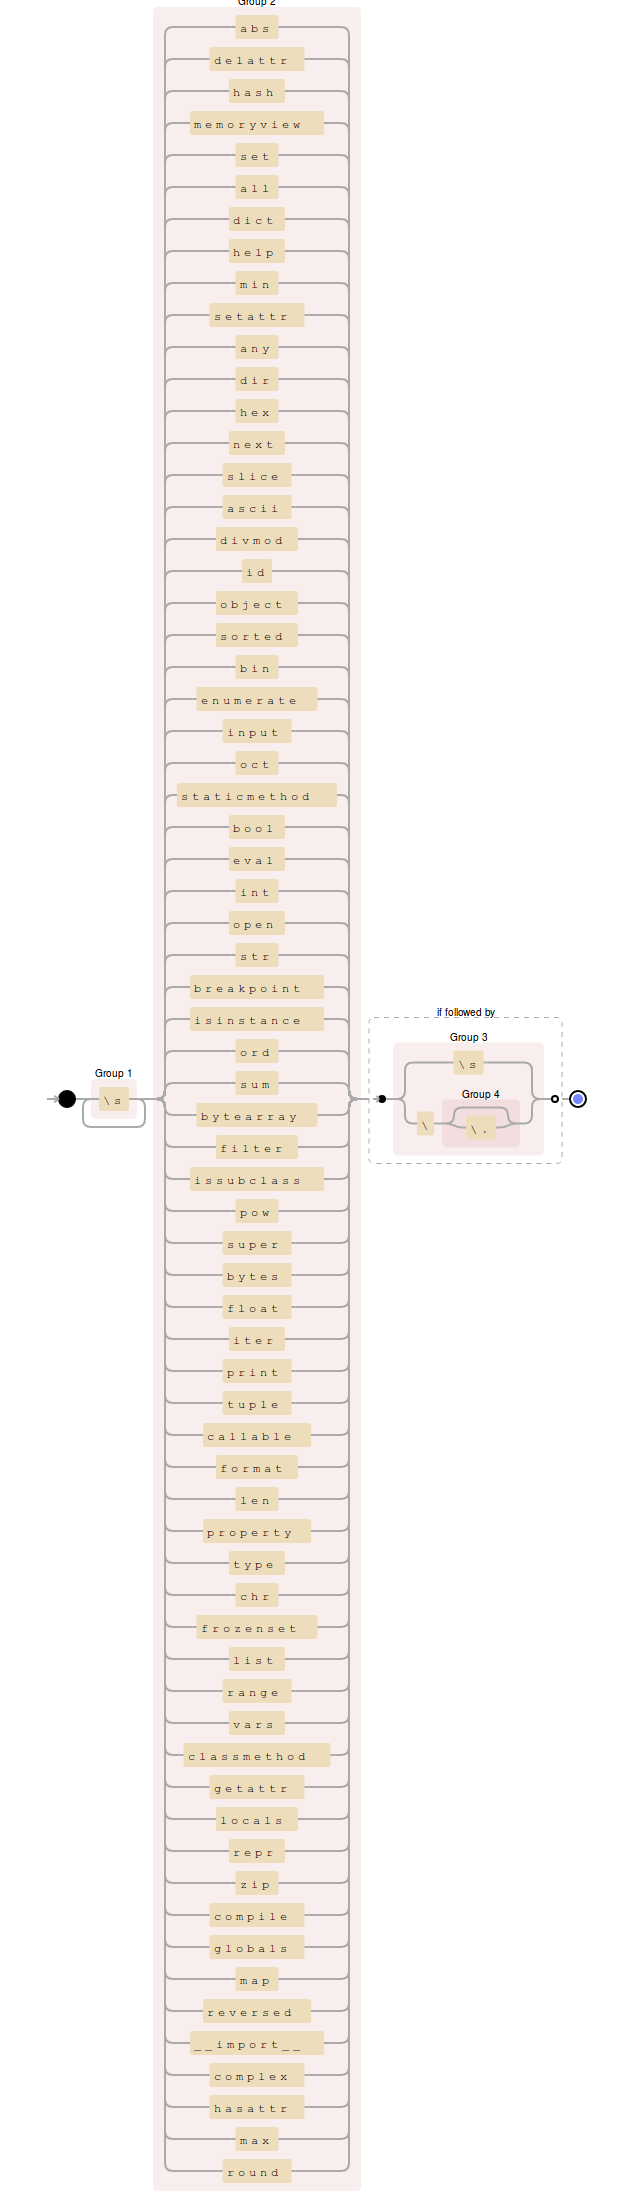
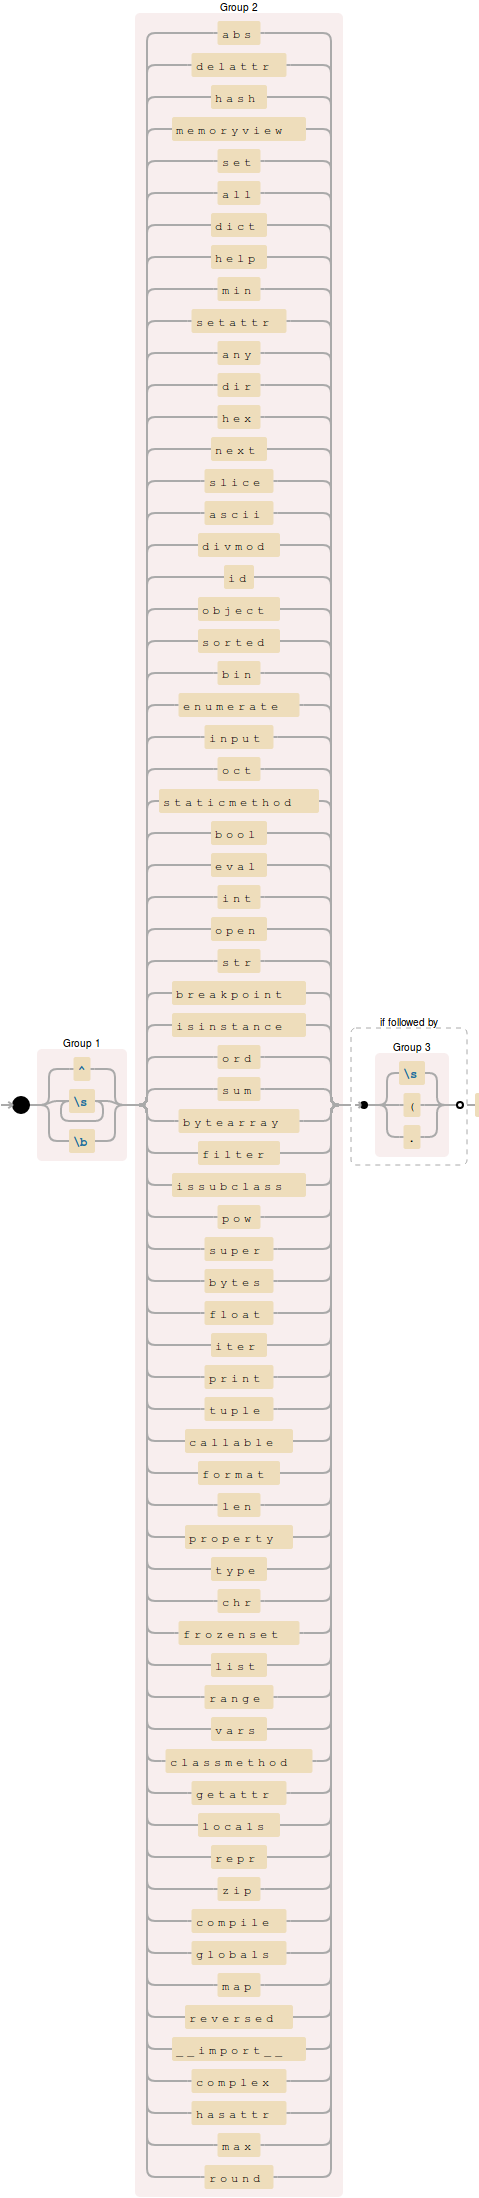
Fix regexp

Changed region(s): [[0.0877, 0.0, 1.0, 1.0], [0.0292, 0.4961, 0.0585, 0.5271]]

diff --git a/defaults/tkhelper.py b/defaults/tkhelper.py
@@ -128,6 +128,8 @@ class TkHelper():
             line = int(text.index(tk.INSERT).split(".")[0])
             startline = f"{line-3}.0" if line > 3 else f"1.0"
             endingline = f"{line+3}.0"
+            if endingline > text.index(tk.END):
+                endingline = "end"
         else:
             startline = "1.0"
             endingline = "end"
@@ -201,11 +203,10 @@ class Default():
     func_declarations: str = []
     class_declarations: str = []
 
-    
     # Visualization https://www.debuggex.com/r/ | Testing https://regex101.com/
     # Note: Tkinter regex engine don't support Lookbehind asserts...
-    chain_pattern_detailed: str = r"(^|\s)(" + r"|".join(iter(chain_gramar)) + r")(?=(\s|:|;|\())"
-    builtin_pattern_detailed: str = r"(\s)+(" + r"|".join(iter(builtin_func)) + r")(?=(\s|\(|\.))"
+    chain_pattern_detailed: str = r"(^|\s+|\b)(" + r"|".join(iter(chain_gramar)) + r")(?=(\s|:|;|\())"
+    builtin_pattern_detailed: str = r"(^|\s+|\b)(" + r"|".join(iter(builtin_func)) + r")(?=(\s|\(|\.))"
     digits_pattern: str = r"(^|\[|\s|,|\(|\]|\})(\d+(\.\d+)?j?)(?=($|\s|,|\)|\]|}|;))" #Best would be: (^|(?<=[\b\s,\)]))(\d+(\.\d+)?)(?=($|\s|,|\)|\]|}|;))
     strings_pattern: str = r"(r|f)?(\"(.|\s)*\")|(\'(.|\s)*\')"
     mstrings_pattern: str = r"(r|f)?(\"{3}(.|\s)*\"{3})|(\'{3}(.|\s)*\'{3})"
@@ -264,3 +265,4 @@ class Default():
             logging.debug(f"Configs not found, loading Default as configs.")
             Default.save()
         return Default
+
